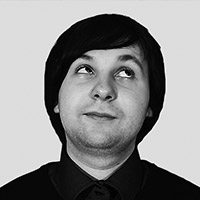
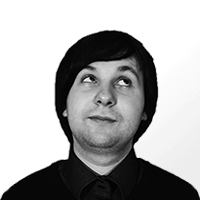
updated team images, added baptiste

diff --git a/src/app/_app-main/_app-main.config.js b/src/app/_app-main/_app-main.config.js
@@ -154,6 +154,9 @@ function rootConfig($locationProvider, $urlRouterProvider, $stateProvider, $tran
     //Sander
     "TEAM_SANDER_DESC": "Computer network and web development aficionado. Constantly brings fresh ideas to the table and stays ruthlessly pragmatic at the same time.",
     "TEAM_SANDER_ALT": "Sander Sink - the fadeit team",
+    //Baptiste
+    "TEAM_BAPTISTE_DESC": "Interested in web and software development in general. Here to learn and improve.",
+    "TEAM_BAPTISTE_ALT": "Baptiste Guillaume - the fadeit team",
     //New guy
     "TEAM_NEW_POSITION": "Impressive Person",
     "TEAM_NEW_NAME": "J. Wantsomework",
@@ -411,6 +414,9 @@ function rootConfig($locationProvider, $urlRouterProvider, $stateProvider, $tran
     //Sander
     "TEAM_SANDER_DESC": "Der findes ingen hindringer og ingen bjerge er for store - Han når altid toppen af bjerget. Der kommer altid nye ideer på bordet og stadig med samme hensynsløse pragmatiske indgangsvinkel.",
     "TEAM_SANDER_ALT": "Sander Sink",
+    //Baptiste
+    "TEAM_BAPTISTE_DESC": "Jeg brænder for web og softwareudvikling. Her for at lære og blive bedre.",
+    "TEAM_BAPTISTE_ALT": "Baptiste Guillaume - the fadeit team",
     //New guy
     "TEAM_NEW_POSITION": "Imponerende person",
     "TEAM_NEW_NAME": "J. Brugforetjob",

diff --git a/src/app/team/team-page.html b/src/app/team/team-page.html
@@ -84,6 +84,22 @@
 
       <section class="row-fluid team-row">
         <section class="col-xs-24 col-md-4 col-md-offset-3 col-xl-3 col-xl-offset-6 image-column">
+          <img src="src/assets/img/team/fadeit_team_baptiste.jpg" alt="{{'TEAM_BAPTISTE_ALT' | translate}}"/>
+        </section>
+        <section class="col-xs-24 col-md-10 col-md-offset-1 col-xl-8 bio-column">
+          <h2 translate>TEAM_SOFTWARE_DEV</h2>
+          <h3>Baptiste Guillaume</h3>
+          <p translate>
+            TEAM_BAPTISTE_DESC
+          </p>
+          <section class="col-xs-24 social-column">
+            <a href="https://github.com/baptisteg" class="social-link" target="_blank"><i class="fa fa-github"></i></a>
+          </section>
+        </section>
+      </section>
+
+      <section class="row-fluid team-row">
+        <section class="col-xs-24 col-md-4 col-md-offset-3 col-xl-3 col-xl-offset-6 image-column">
           <img src="src/assets/img/team/fadeit_join_team.jpg" alt="Join the fadeit team"/>
         </section>
         <section class="col-xs-24 col-md-10 col-md-offset-1 col-xl-8 bio-column">

diff --git a/src/assets/less/main.less b/src/assets/less/main.less
@@ -1506,6 +1506,7 @@ a{
         .inline-block();
         .border-radius(50%);
         overflow:hidden;
+        border:@bst @col_gray_4;
 
         @media only screen and (min-width:@bp_lg){
           margin-top:20px;
